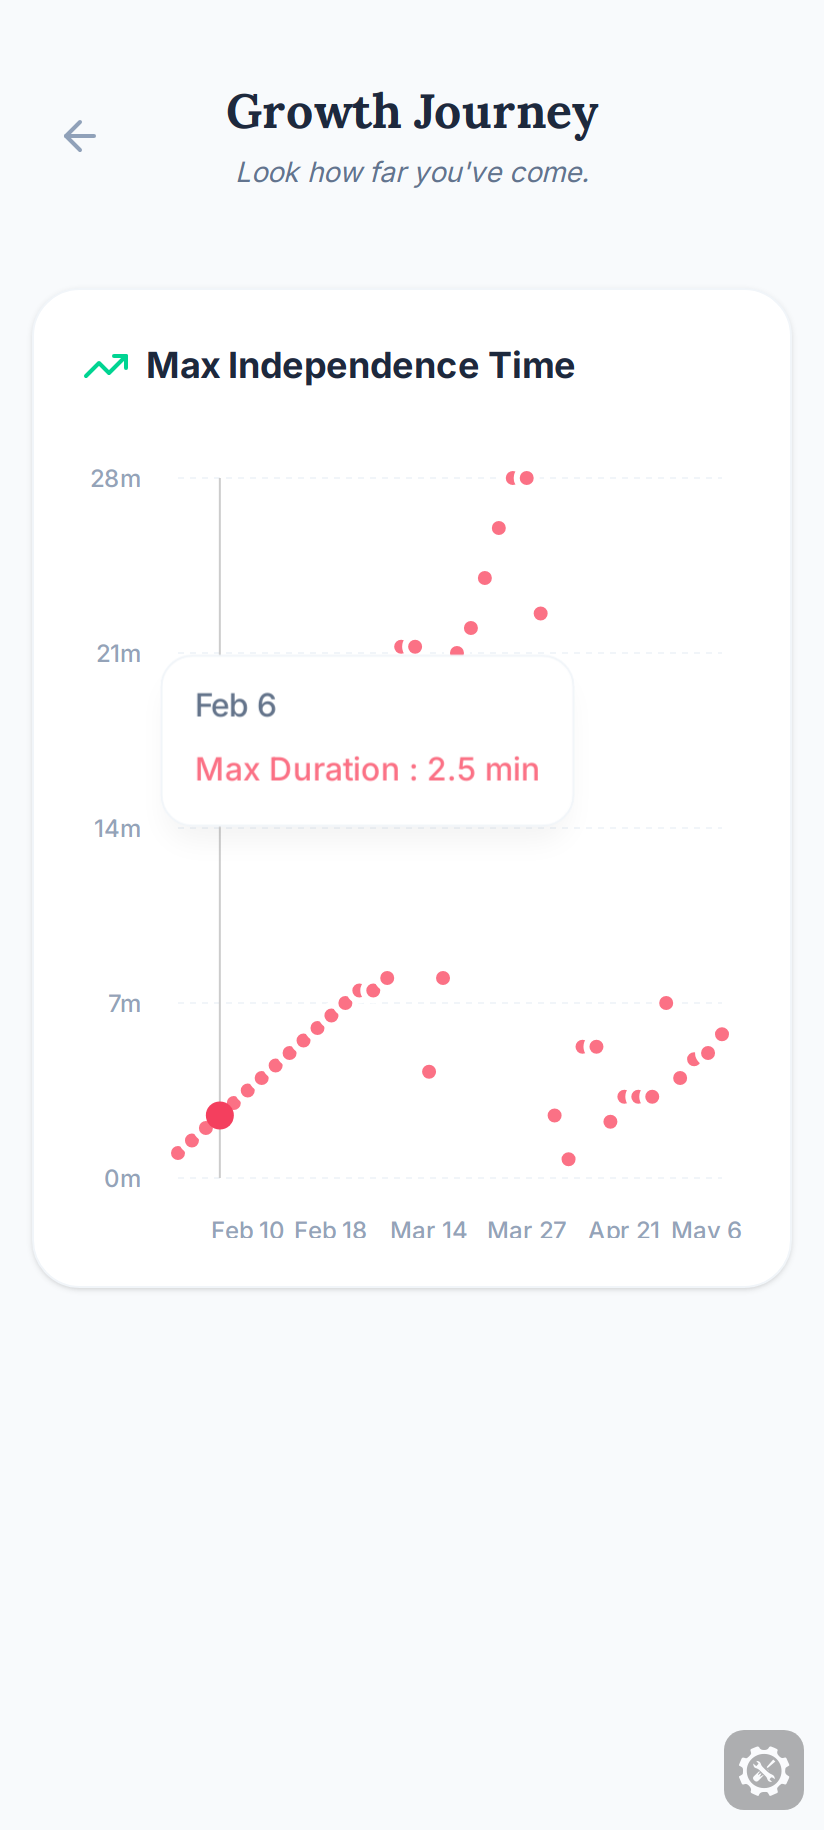
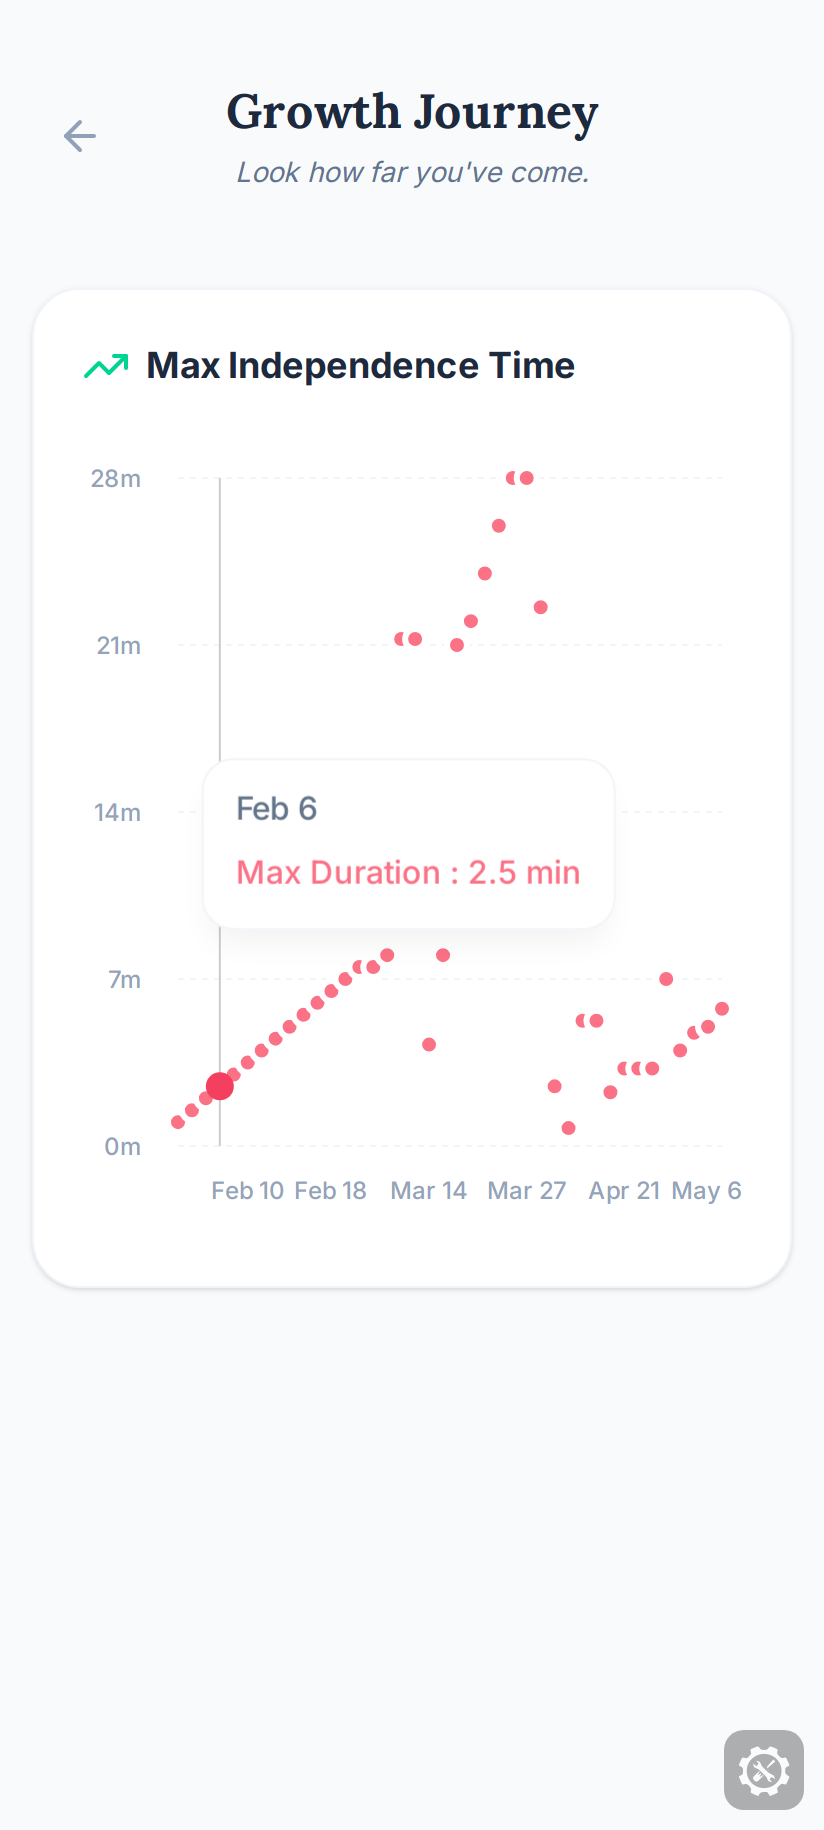
fix: add bottom padding for mobile chart x-axis

diff --git a/apps/brave-paws-app/src/components/GraphView.tsx b/apps/brave-paws-app/src/components/GraphView.tsx
@@ -62,13 +62,14 @@ export function GraphView({ sessions, onBack }: Props) {
         ) : (
           <div className="flex-1 min-h-0">
             <ResponsiveContainer width="100%" height="100%">
-              <LineChart data={data} margin={{ top: 10, right: 10, left: 8, bottom: 0 }}>
+              <LineChart data={data} margin={{ top: 10, right: 10, left: 8, bottom: 10 }}>
                 <CartesianGrid strokeDasharray="3 3" stroke="#f1f5f9" vertical={false} />
                 <XAxis
+                  height={36}
                   dataKey="date"
                   stroke="#94a3b8"
                   tick={{ fill: '#94a3b8', fontSize: 12, fontWeight: 500 }}
-                  tickMargin={16}
+                  tickMargin={12}
                   axisLine={false}
                   tickLine={false}
                 />